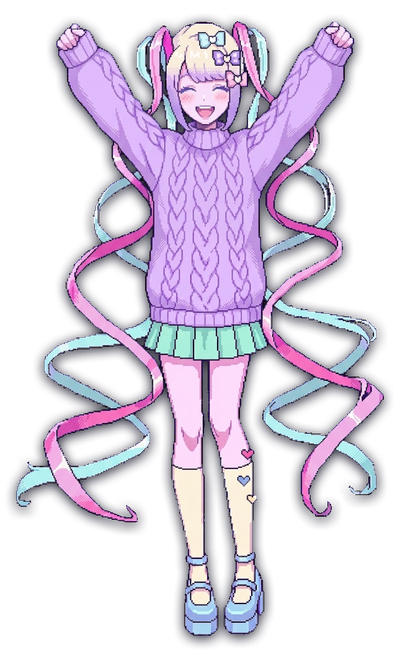
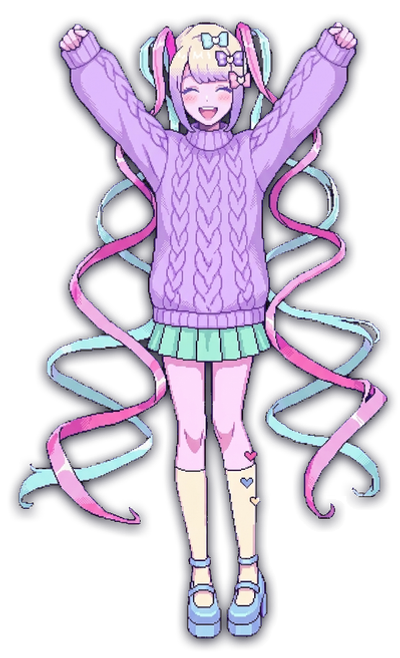
feat: 성녀·흑미사 의상 — 퀴즈 10승 또는 수프 정답 5회로 해금
- 초텐 9컷(성녀)·아메 8컷(흑미사 사제), 폼별 기준으로 정규화, 옷장 썸네일
- 퀴즈·수프 보상 옷이 없었던 자리를 채운다. 터치 8·해금 2 × 2폼, 카탈로그 10벌, 테스트 28개

Changed region(s): [[0.03, 0.0304, 0.99, 1.0]]

diff --git a/tests/wardrobe.test.ts b/tests/wardrobe.test.ts
@@ -6,14 +6,14 @@ import type { MyStats } from '../src/save/cloudSave';
 function stats(over: Partial<{
   quizPlays: number; centerRuns: number; centerBest: number; hensachi: number | null;
   soupPlays: number; soupNoHint: number; holdemHands: number; holdemMultiWins: number;
-  gomokuPlays: number; gomokuWins: number; gomokuHardWins: number;
+  gomokuPlays: number; gomokuWins: number; gomokuHardWins: number; quizWins: number; soupSolved: number;
 }> = {}): MyStats {
   return {
     center: { runs: over.centerRuns ?? 0, best: over.centerBest ?? 0, avg: 0 },
     hensachi: over.hensachi ?? null,
     players: 1, beaten: 0,
-    quiz: { plays: over.quizPlays ?? 0, wins: 0 },
-    soup: { plays: over.soupPlays ?? 0, solved: 0, no_hint: over.soupNoHint ?? 0 },
+    quiz: { plays: over.quizPlays ?? 0, wins: over.quizWins ?? 0 },
+    soup: { plays: over.soupPlays ?? 0, solved: over.soupSolved ?? 0, no_hint: over.soupNoHint ?? 0 },
     holdem: { hands: over.holdemHands ?? 0, wins: 0, best_pot: 0, multi_wins: over.holdemMultiWins ?? 0 },
     gomoku: { plays: over.gomokuPlays ?? 0, wins: over.gomokuWins ?? 0, draws: 0,
       hard_wins: over.gomokuHardWins ?? 0, multi_plays: 0, multi_wins: 0 },
@@ -91,10 +91,10 @@ test('모든 의상에 조건이 있다 (교복만 기본)', () => {
 
 test('마스터: 전부 열리지만 달성 여부는 전적대로', () => {
   const s = evaluateUnlocks(stats({ soupPlays: 1 }), { master: true });
-  assert.equal(s.unlocked.size, 9);
+  assert.equal(s.unlocked.size, 10);
   assert.deepEqual([...s.achieved], ['lounge']);
   assert.equal(s.master, true);
-  assert.equal(evaluateUnlocks(null, { master: true }).unlocked.size, 9);
+  assert.equal(evaluateUnlocks(null, { master: true }).unlocked.size, 10);
 });
 
 test('마스터 이메일 판정은 대소문자·공백 무시', () => {
@@ -105,7 +105,7 @@ test('마스터 이메일 판정은 대소문자·공백 무시', () => {
 });
 
 test('카탈로그에는 9종이 있고 id 가 겹치지 않는다', () => {
-  assert.equal(new Set(COSTUMES.map((c) => c.id)).size, 9);
+  assert.equal(new Set(COSTUMES.map((c) => c.id)).size, 10);
 });
 
 test('수영복: 다섯 조건을 전부 채워야 열린다 (AND)', () => {
@@ -122,4 +122,14 @@ test('수영복: 다섯 조건을 전부 채워야 열린다 (AND)', () => {
   assert.ok(s2.achieved.has('swim'));
   // 다른 옷들처럼 OR 로 새지 않는다
   assert.ok(!evaluateUnlocks(stats({ centerBest: 10000 })).unlocked.has('swim'));
+});
+
+test('성녀·흑미사(2026-10-06): 퀴즈 10승 또는 수프 정답 5회 중 하나', () => {
+  assert.ok(!evaluateUnlocks(stats({ quizWins: 9, soupSolved: 4 })).unlocked.has('saint'));
+  assert.ok(evaluateUnlocks(stats({ quizWins: 10 })).unlocked.has('saint'));
+  assert.ok(evaluateUnlocks(stats({ soupSolved: 5 })).unlocked.has('saint'));
+  const p = evaluateUnlocks(stats({ quizWins: 3, soupSolved: 4 })).progress.saint;
+  assert.equal(p?.label, '바다거북 수프 정답 5회'); // 더 앞선 쪽(4/5)을 보여 준다
+  assert.equal(statValue(stats({ quizWins: 7 }), 'quiz_wins'), 7);
+  assert.equal(statValue(stats({ soupSolved: 2 }), 'soup_solved'), 2);
 });

diff --git a/src/game/wardrobe.ts b/src/game/wardrobe.ts
@@ -12,12 +12,13 @@
 import type { MyStats } from '../save/cloudSave';
 
 /** 기본 교복은 의상이 아니라 null 이다 */
-export type Costume = 'kimono' | 'bunny' | 'pajama' | 'lounge' | 'casual' | 'summer' | 'knit' | 'nurse' | 'swim';
+export type Costume = 'kimono' | 'bunny' | 'pajama' | 'lounge' | 'casual' | 'summer' | 'knit' | 'nurse' | 'saint' | 'swim';
 
 /** my_stats 에서 뽑아 쓰는 지표 하나 */
 export type StatKey =
   | 'plays_total' | 'soup_plays' | 'gomoku_plays' | 'gomoku_wins' | 'center_best'
-  | 'holdem_hands' | 'holdem_multi_wins' | 'gomoku_hard_wins' | 'hensachi' | 'soup_no_hint';
+  | 'holdem_hands' | 'holdem_multi_wins' | 'gomoku_hard_wins' | 'hensachi' | 'soup_no_hint'
+  | 'quiz_wins' | 'soup_solved';
 
 export interface UnlockRule { key: StatKey; need: number; label: string }
 
@@ -55,6 +56,12 @@ export const COSTUMES: readonly CostumeDef[] = [
       { key: 'gomoku_hard_wins', need: 1, label: '오목 진심 격파 1회' },
       { key: 'hensachi', need: 60, label: '편차치 60 이상' },
     ] },
+  // 성자 세트(2026-10-06): 초텐은 가톨릭 성녀풍, 아메는 그 짝인 흑미사 사제. 퀴즈·수프 — 지혜를 보인 사람에게(여태 퀴즈 보상 옷이 없었다)
+  { id: 'saint',  label: '성녀·흑미사', desc: '초텐은 성녀, 아메는 흑미사 사제. 같은 옷인데 믿는 쪽이 정반대',
+    unlock: [
+      { key: 'quiz_wins', need: 10, label: '퀴즈 10승' },
+      { key: 'soup_solved', need: 5, label: '바다거북 수프 정답 5회' },
+    ] },
   // 최종 의상. 다섯 게임을 전부 깊게 파야 하는 복합 조건 — 하나라도 빠지면 안 열린다
   { id: 'swim',   label: '수영복', desc: '여름 한정. 튜브까지 챙겨 왔어',
     all: true,
@@ -88,6 +95,8 @@ export function statValue(stats: MyStats, key: StatKey): number {
     case 'gomoku_hard_wins':  return stats.gomoku.hard_wins;
     case 'hensachi':          return stats.hensachi ?? 0;
     case 'soup_no_hint':      return stats.soup.no_hint;
+    case 'quiz_wins':         return stats.quiz.wins;
+    case 'soup_solved':       return stats.soup.solved;
   }
 }
 

diff --git a/src/game/mascotCostumeLines.ts b/src/game/mascotCostumeLines.ts
@@ -237,6 +237,34 @@ export const COSTUME_LINES: Record<Costume, Record<Form, CostumeLines>> = {
       unlock: ['…간호사. 진심 오목 이긴 사람한테는 이 정도 해줘도.', '…네 담당이야. 다른 사람한테 아프다고 하지 마.'],
     },
   },
+  saint: {
+    choten: {
+      touch: [
+        '성녀 초텐쨩 강림♡ 오늘도 P에게 축복을!',
+        '퀴즈를 그렇게 이기다니, 지혜의 성인 P에게 은총을♡',
+        '십자가 들고 기도하면… 버그도 정화되려나?',
+        '젤방와~ 인터넷 엔젤, 오늘은 성녀 모드야♡',
+        '후광 반짝이지? P 보고 있으면 더 빛나♡',
+        '고해성사 시간! P, 오늘 밤샌 거 고백해♡',
+        '악령 퇴치! …농담이야. P한테 붙은 건 나뿐이야♡',
+        '할렐루야~ P랑 있으면 매일이 축일이야♡ †승천†',
+      ],
+      unlock: ['짜잔~ 성녀 초텐쨩 강림♡ P의 지혜에 축복을! †승천†', '이 후광, P가 켜 준 거야. 계속 비춰 줄게♡'],
+    },
+    ame: {
+      touch: [
+        '…흑미사 사제. 어울린다고 하면 저주는 안 걸게.',
+        '…마도서. 네 이름도 적혀 있어. 좋은 뜻으로.',
+        '…초텐이 성녀면 나는 그 반대. 균형이야.',
+        '…수프를 그렇게 풀었어? 계시라도 받았어?',
+        '…"여기 들어오는 자, 모든 희망을 버려라." 옷장 문에 붙여 둘까.',
+        '…영혼은 이미 너한테 팔았어. 환불은 안 돼.',
+        '…뿔, 만지지 마. …한 번은 괜찮아.',
+        '…악마도 칭찬엔 약해. 그러니까 적당히 해.',
+      ],
+      unlock: ['…흑미사 의상. 지혜를 증명했으니까 계약해 줄게.', '…초텐이 빛이면 난 그림자야. 둘 다 네 거지만.'],
+    },
+  },
   swim: {
     choten: {
       touch: [

diff --git a/src/game/charManifest.ts b/src/game/charManifest.ts
@@ -1,5 +1,5 @@
 // 자동 생성 — 손으로 고치지 말 것. `npm run char:manifest`
-// public/char/*.png 의 파일명(확장자 제외). 168개.
+// public/char/*.png 의 파일명(확장자 제외). 185개.
 export const CHAR_FILES: readonly string[] = [
   "ame_bunny",
   "ame_bunny_contempt",
@@ -61,6 +61,14 @@ export const CHAR_FILES: readonly string[] = [
   "ame_pout",
   "ame_rude",
   "ame_sad",
+  "ame_saint",
+  "ame_saint_joy",
+  "ame_saint_pout",
+  "ame_saint_shy",
+  "ame_saint_smirk",
+  "ame_saint_surprised",
+  "ame_saint_thinking",
+  "ame_saint_wave",
   "ame_shy",
   "ame_sleepy",
   "ame_smoking",
@@ -146,6 +154,15 @@ export const CHAR_FILES: readonly string[] = [
   "choten_pout",
   "choten_rude",
   "choten_sad",
+  "choten_saint",
+  "choten_saint_angry",
+  "choten_saint_cheer",
+  "choten_saint_joy",
+  "choten_saint_pout",
+  "choten_saint_shy",
+  "choten_saint_surprised",
+  "choten_saint_thinking",
+  "choten_saint_wave",
   "choten_shy",
   "choten_sleepy",
   "choten_smoke",

diff --git a/src/game/mascotImages.ts b/src/game/mascotImages.ts
@@ -98,7 +98,7 @@ export function touchImages(form: Form, costume: Costume | null): string[] {
   return (filtered.length ? filtered : [baseImageName(form, costume)]).map(imagePath);
 }
 
-const COSTUME_PREFIXES = ['kimono', 'bunny', 'pajama', 'lounge', 'casual', 'summer', 'knit', 'nurse', 'swim'];
+const COSTUME_PREFIXES = ['kimono', 'bunny', 'pajama', 'lounge', 'casual', 'summer', 'knit', 'nurse', 'saint', 'swim'];
 function isCostumeFile(form: Form, name: string): boolean {
   const rest = name.slice(form.length + 1);
   return COSTUME_PREFIXES.some((c) => rest === c || rest.startsWith(c + '_'));
